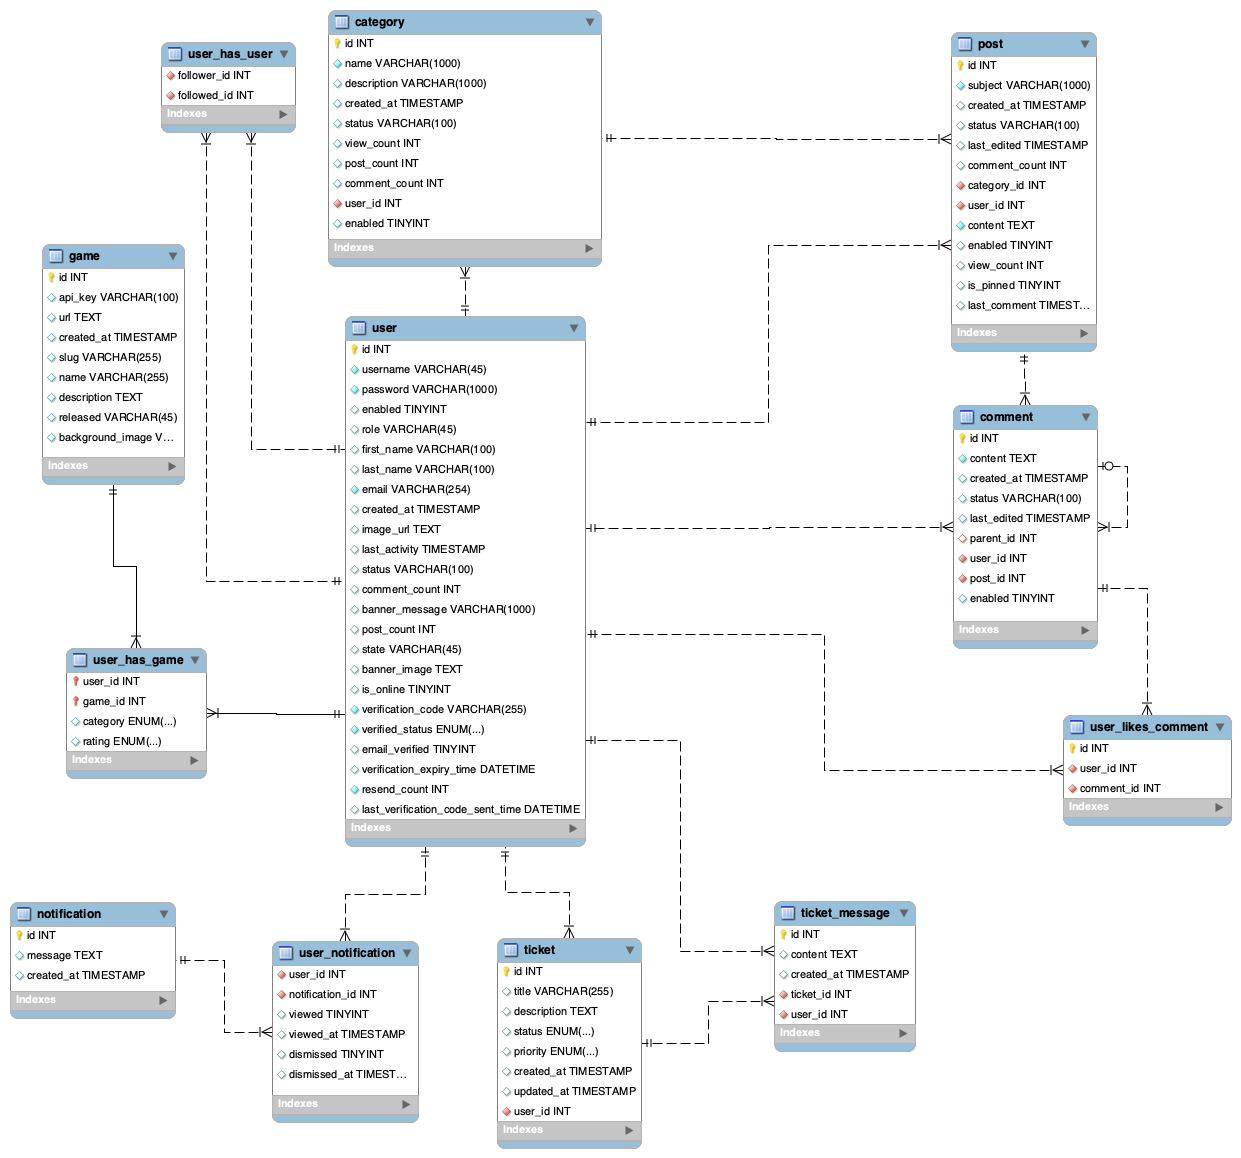
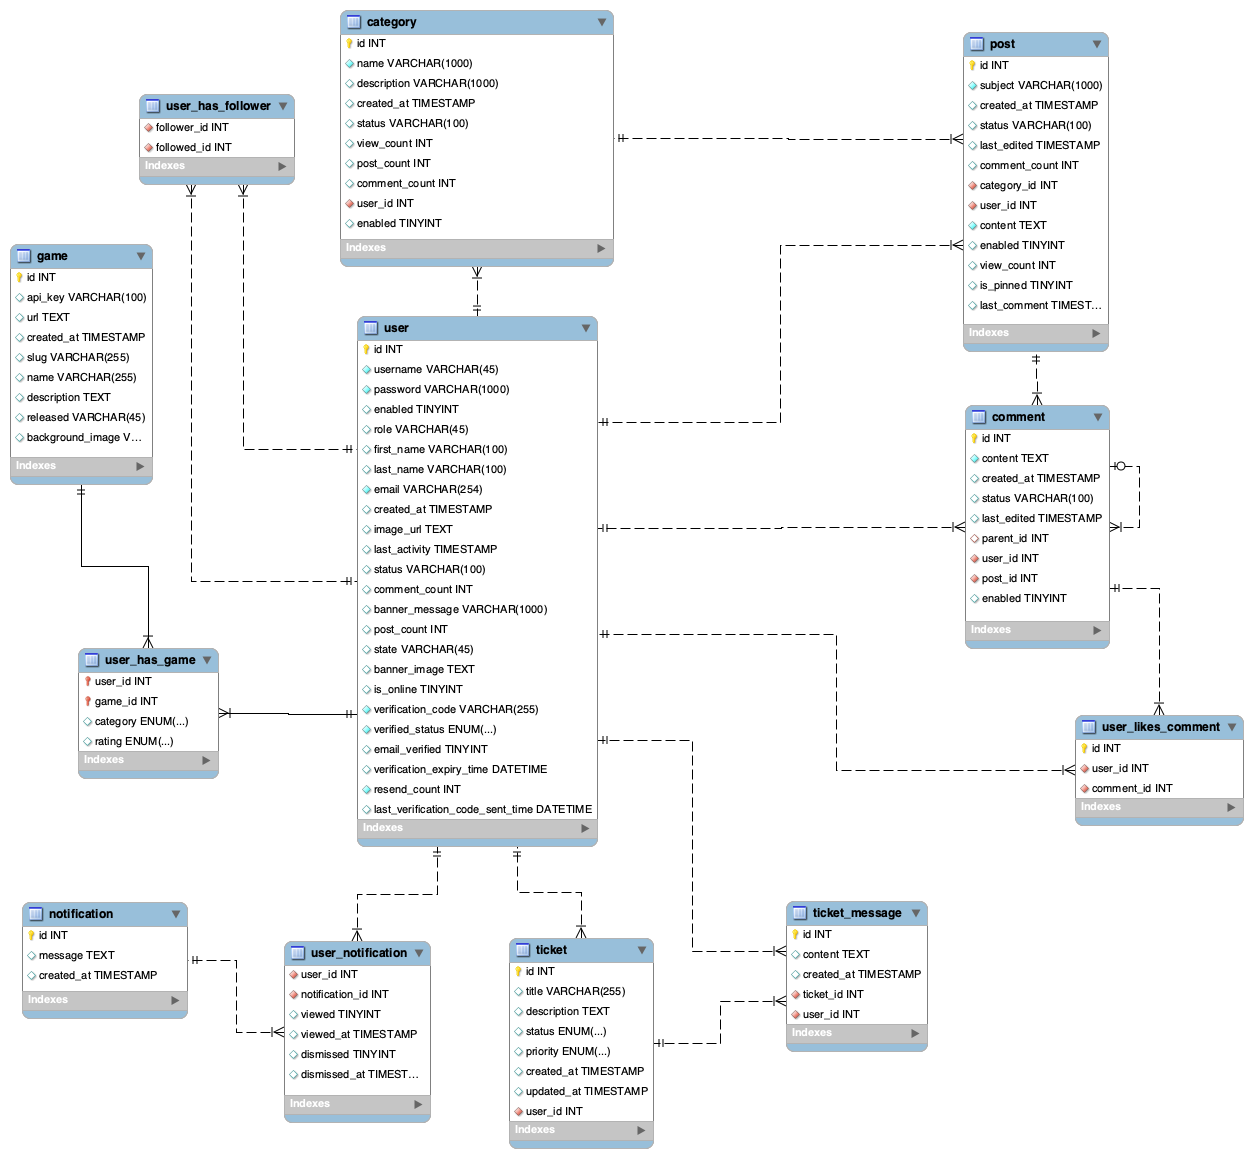
Add user follower entity to spring jpa project and list in persistence xml file. Also create user follower id class which implements serializable because user follower does not have a primary key

diff --git a/JPALoreHunter/src/main/java/com/skilldistillery/lorehunter/entities/UserFollower.java b/JPALoreHunter/src/main/java/com/skilldistillery/lorehunter/entities/UserFollower.java
@@ -1,0 +1,82 @@
+package com.skilldistillery.lorehunter.entities;
+
+import java.util.Objects;
+
+import javax.persistence.Entity;
+import javax.persistence.Id;
+import javax.persistence.IdClass;
+import javax.persistence.JoinColumn;
+import javax.persistence.ManyToOne;
+import javax.persistence.Table;
+
+@Entity
+@Table(name = "user_has_follower")
+@IdClass(UserFollowerId.class)
+public class UserFollower {
+	
+    @Id
+    @ManyToOne
+    @JoinColumn(name = "follower_id")
+    private User follower;
+
+    @Id
+    @ManyToOne
+    @JoinColumn(name = "followed_id")
+    private User followed;
+
+	public UserFollower() {
+		super();
+		// TODO Auto-generated constructor stub
+	}
+
+	public UserFollower(User follower, User followed) {
+		super();
+		this.follower = follower;
+		this.followed = followed;
+	}
+
+	public User getFollower() {
+		return follower;
+	}
+
+	public void setFollower(User follower) {
+		this.follower = follower;
+	}
+
+	public User getFollowed() {
+		return followed;
+	}
+
+	public void setFollowed(User followed) {
+		this.followed = followed;
+	}
+
+	@Override
+	public int hashCode() {
+		return Objects.hash(followed, follower);
+	}
+
+	@Override
+	public boolean equals(Object obj) {
+		if (this == obj)
+			return true;
+		if (obj == null)
+			return false;
+		if (getClass() != obj.getClass())
+			return false;
+		UserFollower other = (UserFollower) obj;
+		return Objects.equals(followed, other.followed) && Objects.equals(follower, other.follower);
+	}
+
+	@Override
+	public String toString() {
+		StringBuilder builder = new StringBuilder();
+		builder.append("UserFollower [follower=");
+		builder.append(follower);
+		builder.append(", followed=");
+		builder.append(followed);
+		builder.append("]");
+		return builder.toString();
+	}
+    
+}

diff --git a/JPALoreHunter/src/main/java/com/skilldistillery/lorehunter/entities/UserFollowerId.java b/JPALoreHunter/src/main/java/com/skilldistillery/lorehunter/entities/UserFollowerId.java
@@ -1,0 +1,69 @@
+package com.skilldistillery.lorehunter.entities;
+
+import java.io.Serializable;
+import java.util.Objects;
+
+public class UserFollowerId implements Serializable {
+	
+    private static final long serialVersionUID = 1L;
+
+    private int follower;
+
+    private int followed;
+
+	public UserFollowerId() {
+		super();
+		// TODO Auto-generated constructor stub
+	}
+
+	public UserFollowerId(int follower, int followed) {
+		super();
+		this.follower = follower;
+		this.followed = followed;
+	}
+
+	public int getFollower() {
+		return follower;
+	}
+
+	public void setFollower(int follower) {
+		this.follower = follower;
+	}
+
+	public int getFollowed() {
+		return followed;
+	}
+
+	public void setFollowed(int followed) {
+		this.followed = followed;
+	}
+
+	@Override
+	public int hashCode() {
+		return Objects.hash(followed, follower);
+	}
+
+	@Override
+	public boolean equals(Object obj) {
+		if (this == obj)
+			return true;
+		if (obj == null)
+			return false;
+		if (getClass() != obj.getClass())
+			return false;
+		UserFollowerId other = (UserFollowerId) obj;
+		return Objects.equals(followed, other.followed) && Objects.equals(follower, other.follower);
+	}
+
+	@Override
+	public String toString() {
+		StringBuilder builder = new StringBuilder();
+		builder.append("UserFollowerId [follower=");
+		builder.append(follower);
+		builder.append(", followed=");
+		builder.append(followed);
+		builder.append("]");
+		return builder.toString();
+	}
+    
+}
